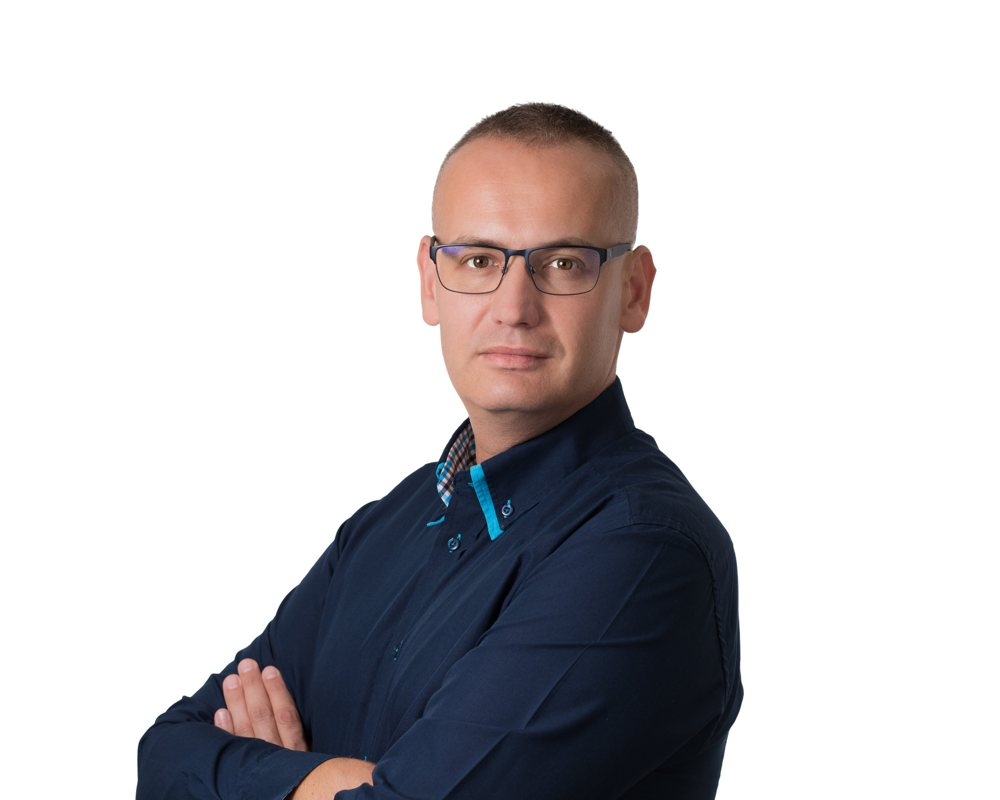
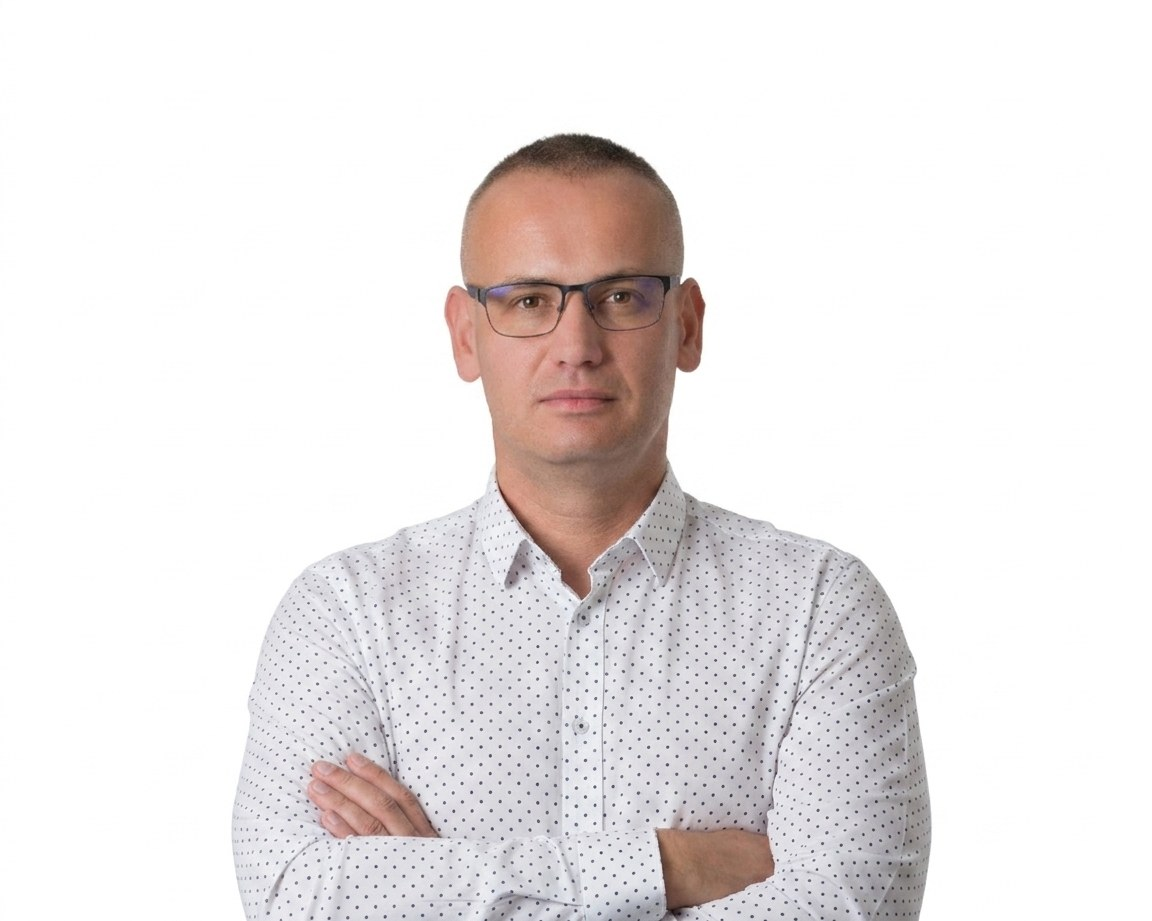
Nová fotka v sekcii 01 · Predám vašu nehnuteľnosť
Claude-Session: https://claude.ai/code/session_01DCvQGxxswHsVupy3JF3CWG

diff --git a/index_de.html b/index_de.html
@@ -112,7 +112,7 @@ img{max-width:100%}
         <h2 style="margin: 28px 0 0; font-weight: 800; font-size: clamp(44px, 5.4vw, 80px); line-height: 0.95; letter-spacing: -0.055em">Ich verkaufe Ihre Immobilie. <span style="font-family: Newsreader, Georgia, serif; font-style: italic; font-weight: 400; letter-spacing: -0.03em">Zum richtigen Preis.</span></h2>
       </div>
       <div style="flex: 0 1 420px; min-width: 0; display: flex; flex-direction: column; gap: 22px">
-        <img src="/img/foto-predaj.jpg" alt="Michal Leško – Immobilienverkauf" style="display: block; width: 100%; aspect-ratio: 5 / 4; height: auto; object-fit: cover; background: #ffffff; border: 1px solid #ddd6c8">
+        <img src="/img/foto-predaj.jpg?v=2" alt="Michal Leško – Immobilienverkauf" style="display: block; width: 100%; aspect-ratio: 5 / 4; height: auto; object-fit: cover; background: #ffffff; border: 1px solid #ddd6c8">
         <p style="margin: 0; font-size: 16px; line-height: 1.7; color: #5b5751">Ihr Ansprechpartner bin nur ich. Vom ersten Gespräch bis zur Unterschrift und Schlüsselübergabe wissen Sie immer, wo wir stehen und was als Nächstes kommt.</p>
       </div>
     </div>

diff --git a/index.html b/index.html
@@ -112,7 +112,7 @@ img{max-width:100%}
         <h2 style="margin: 28px 0 0; font-weight: 800; font-size: clamp(44px, 5.4vw, 80px); line-height: 0.95; letter-spacing: -0.055em">Predám vašu nehnuteľnosť. <span style="font-family: Newsreader, Georgia, serif; font-style: italic; font-weight: 400; letter-spacing: -0.03em">Za správnu cenu.</span></h2>
       </div>
       <div style="flex: 0 1 420px; min-width: 0; display: flex; flex-direction: column; gap: 22px">
-        <img src="/img/foto-predaj.jpg" alt="Michal Leško – predaj nehnuteľností" style="display: block; width: 100%; aspect-ratio: 5 / 4; height: auto; object-fit: cover; background: #ffffff; border: 1px solid #ddd6c8">
+        <img src="/img/foto-predaj.jpg?v=2" alt="Michal Leško – predaj nehnuteľností" style="display: block; width: 100%; aspect-ratio: 5 / 4; height: auto; object-fit: cover; background: #ffffff; border: 1px solid #ddd6c8">
         <p style="margin: 0; font-size: 16px; line-height: 1.7; color: #5b5751">Komunikujete len so mnou. Od prvého rozhovoru až po podpis a odovzdanie kľúčov viete, kde sa nachádzame a čo bude nasledovať.</p>
       </div>
     </div>

diff --git a/index_en.html b/index_en.html
@@ -112,7 +112,7 @@ img{max-width:100%}
         <h2 style="margin: 28px 0 0; font-weight: 800; font-size: clamp(44px, 5.4vw, 80px); line-height: 0.95; letter-spacing: -0.055em">I’ll sell your property. <span style="font-family: Newsreader, Georgia, serif; font-style: italic; font-weight: 400; letter-spacing: -0.03em">At the right price.</span></h2>
       </div>
       <div style="flex: 0 1 420px; min-width: 0; display: flex; flex-direction: column; gap: 22px">
-        <img src="/img/foto-predaj.jpg" alt="Michal Leško – property sales" style="display: block; width: 100%; aspect-ratio: 5 / 4; height: auto; object-fit: cover; background: #ffffff; border: 1px solid #ddd6c8">
+        <img src="/img/foto-predaj.jpg?v=2" alt="Michal Leško – property sales" style="display: block; width: 100%; aspect-ratio: 5 / 4; height: auto; object-fit: cover; background: #ffffff; border: 1px solid #ddd6c8">
         <p style="margin: 0; font-size: 16px; line-height: 1.7; color: #5b5751">You deal with me only. From the first conversation to the signing and key handover, you always know where we are and what comes next.</p>
       </div>
     </div>
